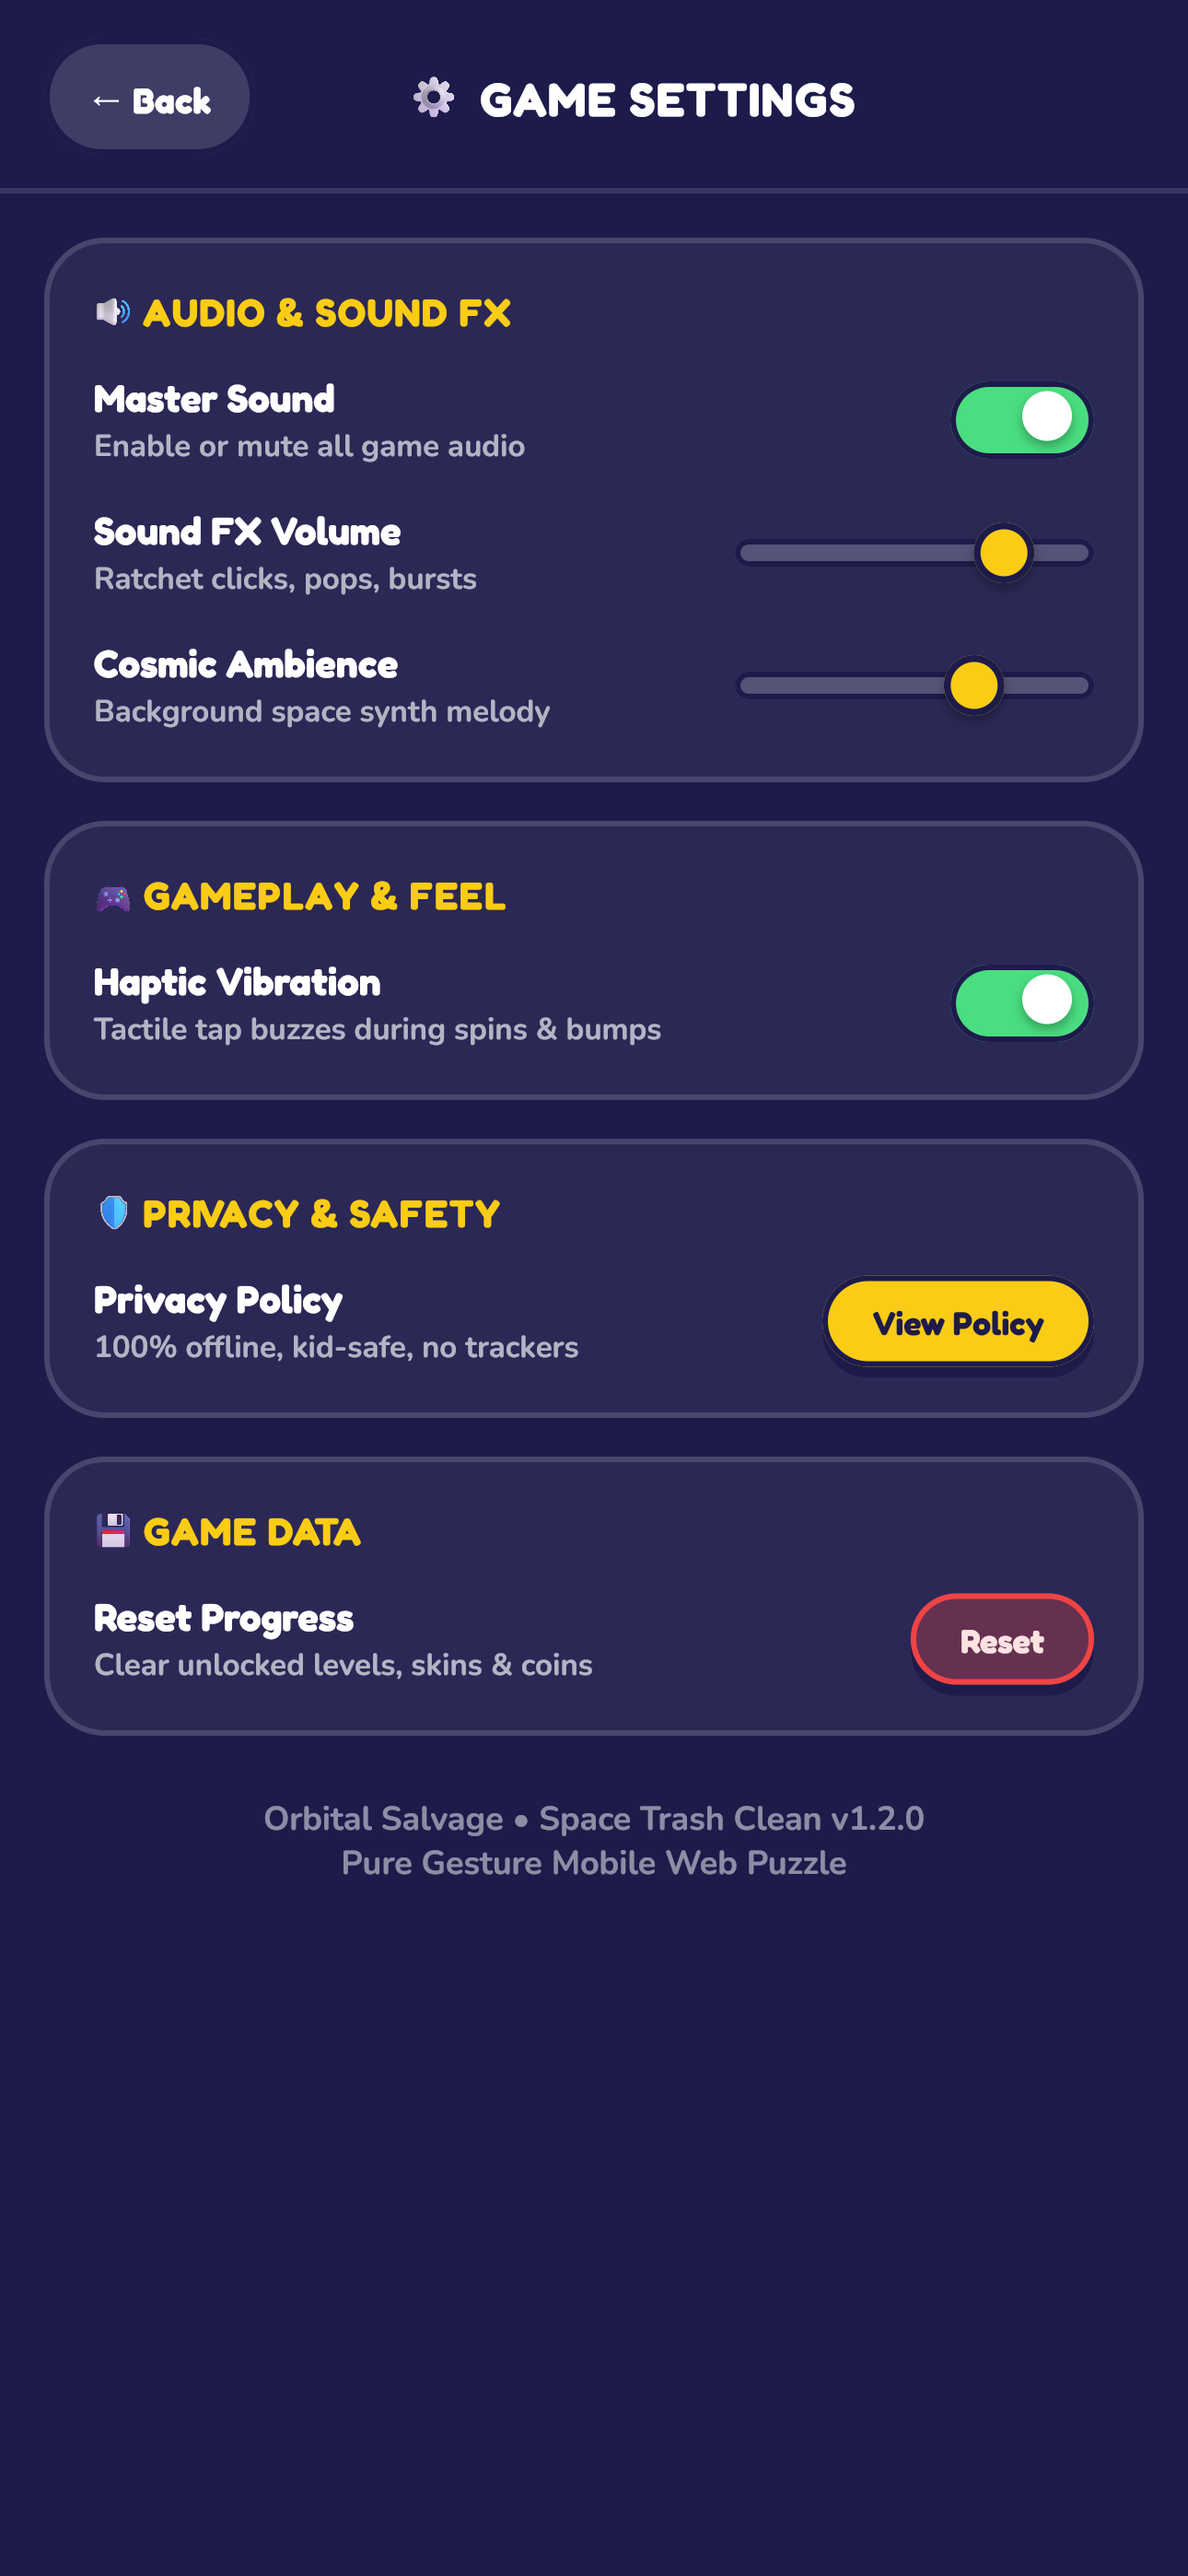
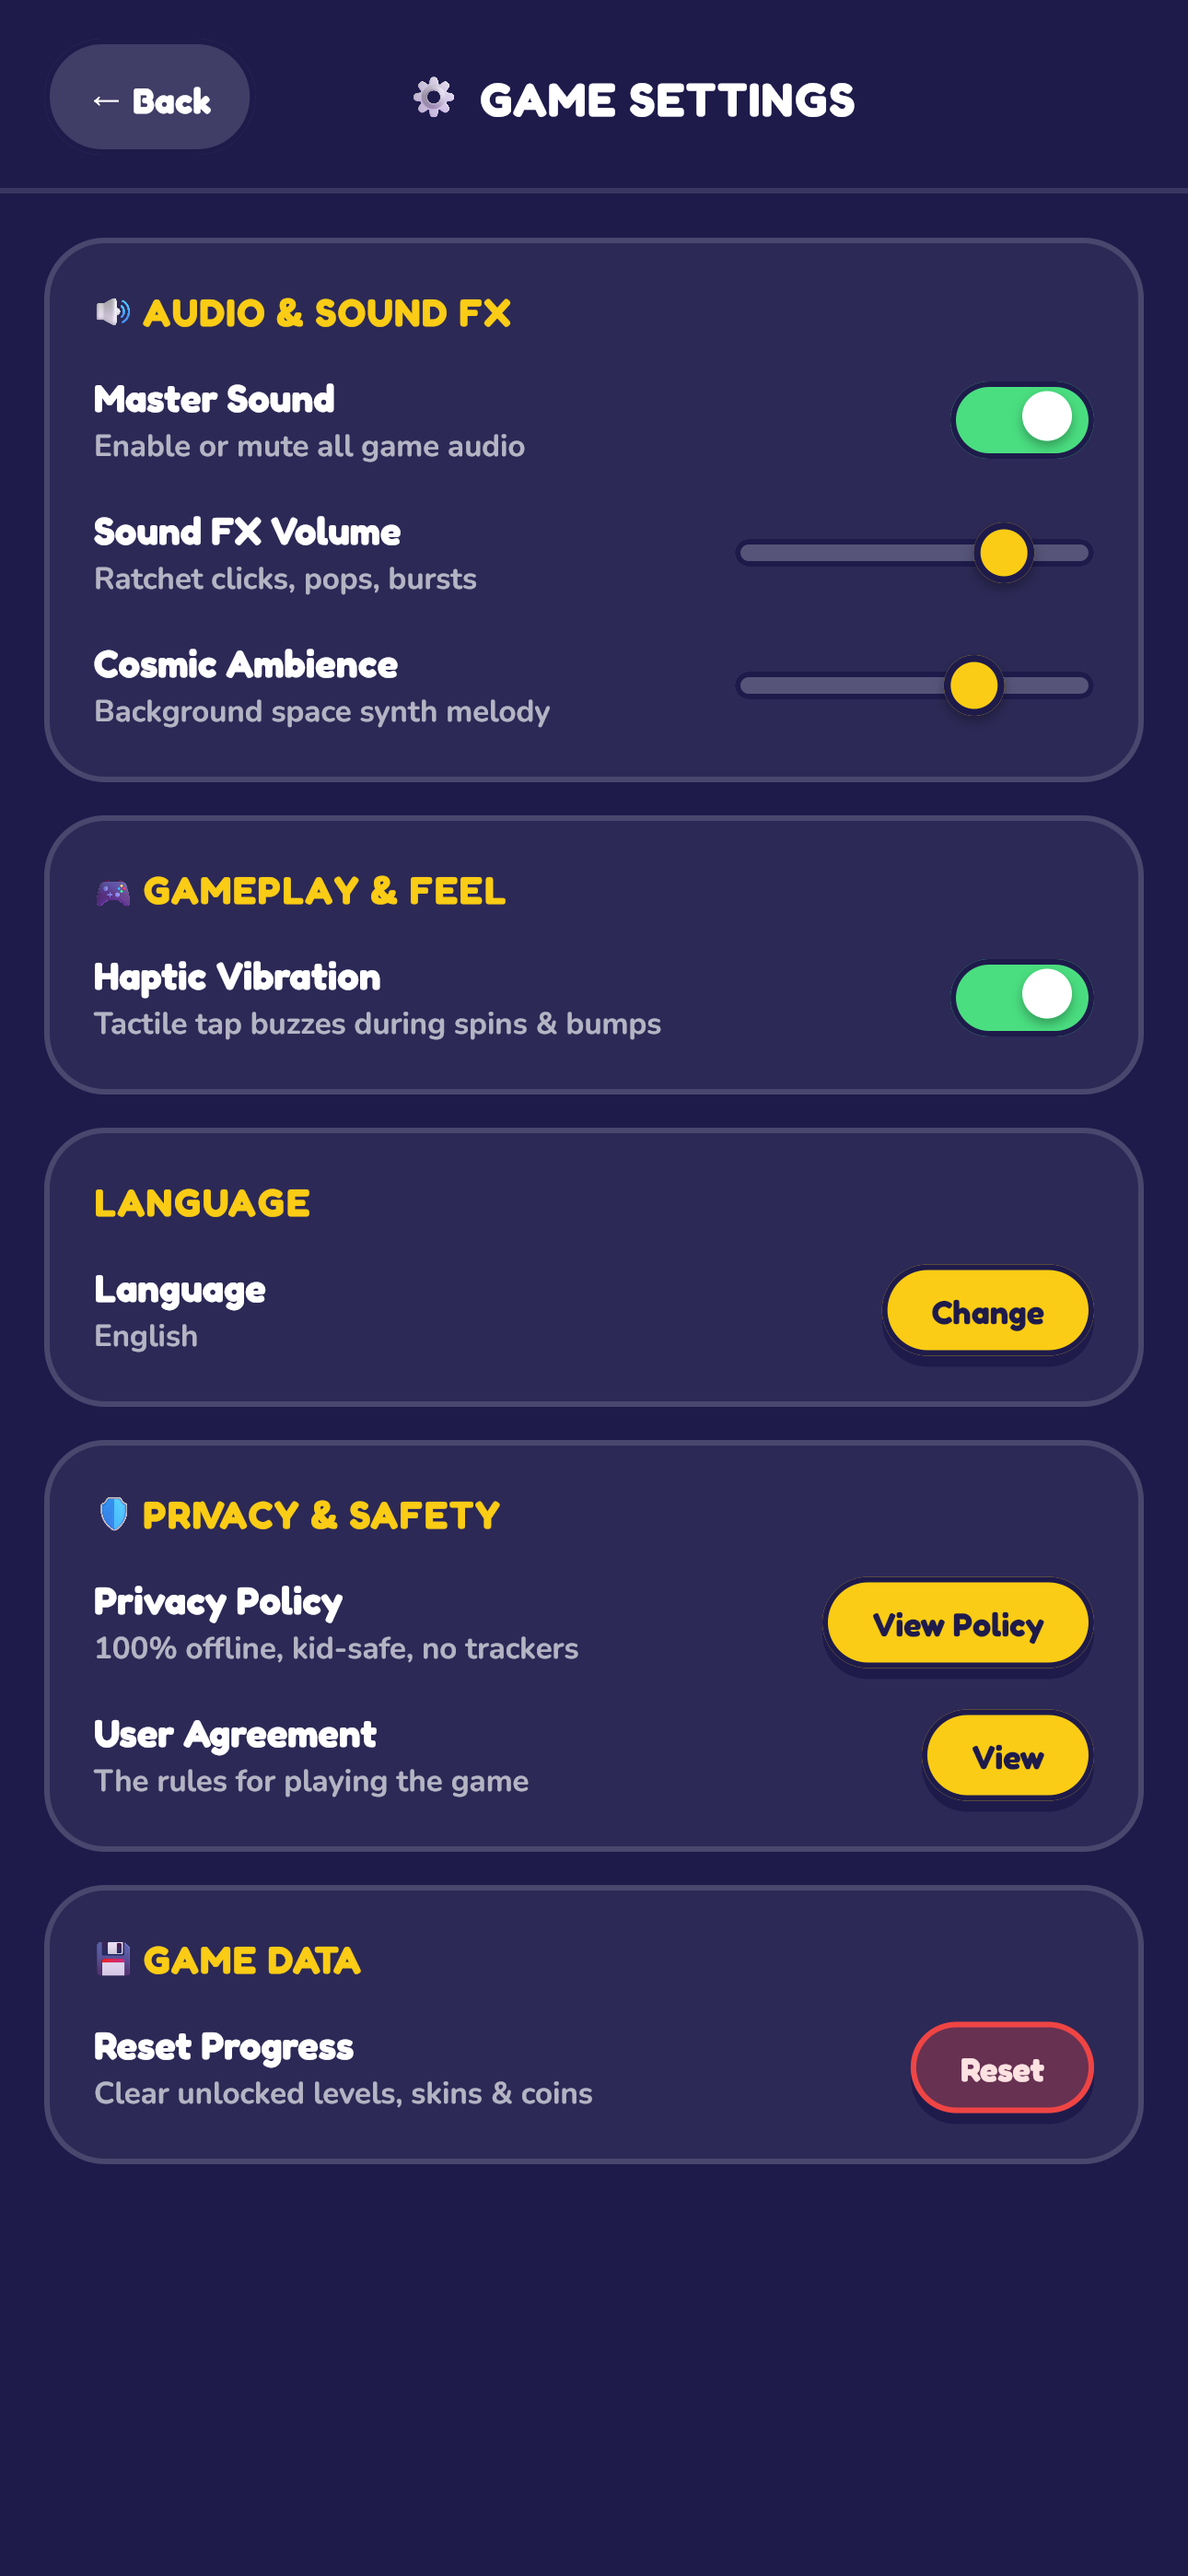
chore(unity): repaint the 13 doc screenshots from the current page specs
unity/screenshots/*.png (linked from doc 09) dated from 4 October and still
showed the old Settings page with the credits footer, and a trophy room with
two unlocked trophies.

- Add PagePreviewPainter.DumpDocScreenshotsBatch (batch -executeMethod) and
  the DocScreenshots table that maps each file to its spec, so the set can
  be repainted with one command instead of by hand.
- Repaint all 13 files at 1290 x 2796 with Unity 6000.4.0f1 on Metal,
  clearing the outline-glyph cache before each page like the parity player.
- Document the command in unity/maze-puzzle/README.md and record the result
  in CHANGELOG.md.

Compared with the old files, 8 of 13 differ by at most 4 levels per channel
(renderer rounding). The trophy room and settings pages changed visibly.
The pause, victory and defeat modals differ in small spots only; the cause
was not investigated. The game page still shows the recorded playfield from
the spec, not a live level.

Changed region(s): [[0.031, 0.3112, 0.9612, 0.8401], [0.7442, 0.7779, 0.9612, 0.8401], [0.9302, 0.7468, 0.9612, 0.7779]]

diff --git a/games/maze-puzzle/unity/maze-puzzle/Assets/Scripts/Viewer/Editor/PagePreviewPainter.cs b/games/maze-puzzle/unity/maze-puzzle/Assets/Scripts/Viewer/Editor/PagePreviewPainter.cs
@@ -92,6 +92,55 @@ namespace OrbitalSalvage.Viewer.Editor
             if (Application.isBatchMode) EditorApplication.Exit(0);
         }
 
+        /// <summary>
+        /// The 13 pictures in <c>games/maze-puzzle/unity/screenshots</c>, in the order doc 09 lists them:
+        /// file name, then the spec painted in the capture pose at the spec's own scale (1290 x 2796).
+        /// </summary>
+        public static readonly string[][] DocScreenshots =
+        {
+            new[] { "01_unity_home_screen.png", "home_default" },
+            new[] { "02_unity_maps_screen.png", "maps_world_1_fresh" },
+            new[] { "03_unity_daily_operations.png", "daily_default" },
+            new[] { "04_unity_toy_shop_donuts.png", "shop_rings_default" },
+            new[] { "05_unity_toy_shop_hats.png", "shop_singularities_default" },
+            new[] { "06_unity_toy_shop_skies.png", "shop_skyboxes_default" },
+            new[] { "07_unity_trophy_room.png", "achievements_none" },
+            new[] { "08_unity_settings_screen.png", "settings_default" },
+            new[] { "09_unity_gameplay_sector_1.png", "game_lvl01_t1000ms" },
+            new[] { "10_unity_gameplay_paused.png", "modal_pause" },
+            new[] { "11_unity_victory_debrief.png", "modal_debrief_exact" },
+            new[] { "12_unity_defeat_modal.png", "modal_defeat_12_of_20" },
+            new[] { "13_unity_loading_screen.png", "loading_t0500" }
+        };
+
+        /// <summary>
+        /// Repaints the 13 doc screenshots. Batch:
+        /// <c>-executeMethod OrbitalSalvage.Viewer.Editor.PagePreviewPainter.DumpDocScreenshotsBatch -docShotDir &lt;folder&gt;</c>.
+        /// Without <c>-docShotDir</c> the files go to <c>games/maze-puzzle/unity/screenshots</c>.
+        /// Needs a graphics device, so do not pass <c>-nographics</c>.
+        /// </summary>
+        public static void DumpDocScreenshotsBatch()
+        {
+            string dir = null;
+            var args = Environment.GetCommandLineArgs();
+            for (int i = 0; i < args.Length - 1; i++)
+                if (args[i] == "-docShotDir") dir = args[i + 1];
+            if (string.IsNullOrEmpty(dir))
+            {
+                string project = Directory.GetParent(Application.dataPath).FullName;
+                dir = Path.GetFullPath(Path.Combine(project, "..", "screenshots"));
+            }
+            Directory.CreateDirectory(dir);
+            foreach (var item in DocScreenshots)
+            {
+                // The parity player starts with empty glyph outlines; a dirty cache moves a few edge pixels.
+                OutlineFonts.Clear();
+                WriteShot(dir, item[0], item[1], "zero", null);
+            }
+            Debug.Log("[DocShots] wrote " + DocScreenshots.Length + " files to " + dir);
+            if (Application.isBatchMode) EditorApplication.Exit(0);
+        }
+
         static void MarkJapanese(HomeChrome chrome)
         {
             chrome.TextOverrides["settings-language-value"] = "日本語";

diff --git a/games/maze-puzzle/unity/maze-puzzle/README.md b/games/maze-puzzle/unity/maze-puzzle/README.md
@@ -83,3 +83,14 @@ Measured on a Mac (Apple M4 Pro, Metal) with 320 pieces, render call including t
 ## Tapping the shop
 
 The shop page is a captured page whose cards are swapped for owned, equipped, or locked ones (`CardStamp`, `HomeChrome.StampShopCards`) when no captured page has the player's inventory. After that swap the buttons are not where the captured file puts them. `HomeChrome.ShopStamped` is true and `HomeChrome.Elements` holds what is painted. `ParityViewer` hit-tests against `Elements` on a stamped page, through the `IReadOnlyList` overloads of `ParityPages.TryHitControl`, `TryPressAt`, `TryCenter`, and `TryClassCenter`. Every other page still uses the captured file. A new page whose elements change after loading must do the same, or its buttons will not answer. `ShopEquipHitTests` covers Wear and Buy on a stamped shop.
+
+## Doc screenshots
+
+`games/maze-puzzle/unity/screenshots/` holds the 13 pictures that doc 09 links, each 1290 x 2796 (the 430 x 932 page at 3x). `PagePreviewPainter.DocScreenshots` lists the spec behind each file. Repaint them with this project closed in the Editor and a graphics device (no `-nographics`):
+
+```bash
+Unity -batchmode -quit -projectPath games/maze-puzzle/unity/maze-puzzle \
+  -executeMethod OrbitalSalvage.Viewer.Editor.PagePreviewPainter.DumpDocScreenshotsBatch
+```
+
+`-docShotDir <folder>` writes somewhere else. These are the stored page specs painted in the capture pose, so the game page shows the recorded playfield, not a live level. Restore `ProjectSettings/ProjectSettings.asset` with `git checkout` after a batch run if Unity changed it.

diff --git a/games/maze-puzzle/CHANGELOG.md b/games/maze-puzzle/CHANGELOG.md
@@ -17,6 +17,10 @@ Paths written as `tools/parity/...` in entries dated before 2026-10-08 are the l
 
 ### Changed
 
+#### Unity doc screenshots repainted (2026-10-15)
+
+- All 13 files in `unity/screenshots/` were repainted from the current page specs with the new batch method `PagePreviewPainter.DumpDocScreenshotsBatch` (Unity 6000.4.0f1, Metal, 1290 × 2796). Compared with the old files, 8 of 13 (01 to 06, 09, 13) differ by at most 4 levels per colour channel, which is renderer rounding. Two changed visibly: 07 trophy room (nothing unlocked now) and 08 settings (Language and Privacy rows added, credits footer gone). The modals 10 to 12 differ only in small spots: 11 and 12 in one 46-pixel text band near the bottom, 10 by at most 81 levels on few pixels. I did not find out what changed in those bands. The 2026-10-04 files came from a different renderer, so a byte comparison of the unchanged ones is not meaningful. Doc 09's score table was not re-scored. The game page (09) shows the recorded playfield from the spec, not a live level.
+
 #### Documents brought up to date (2026-10-15)
 
 - `README.md` and `unity/maze-puzzle/README.md` named Unity `6000.4.6f1`; the project is on `6000.4.0f1` (`ProjectSettings/ProjectVersion.txt`).
